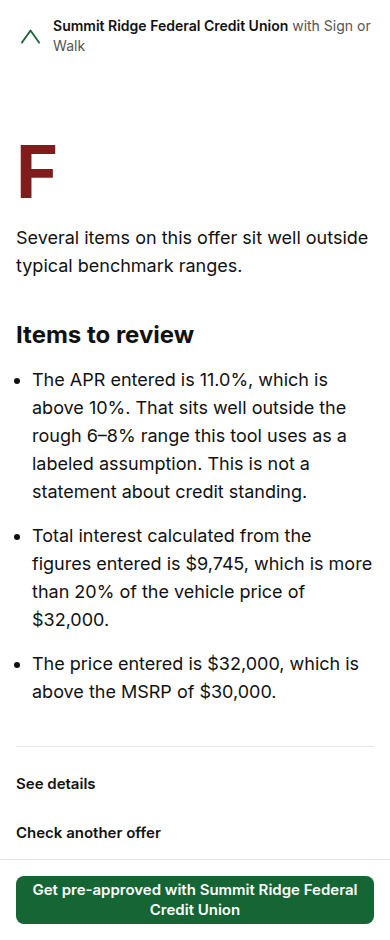
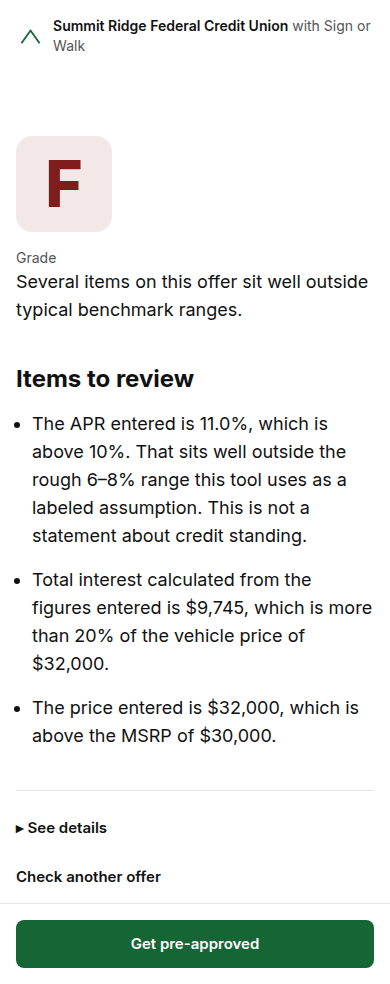
Apply the design review to marketing, results, and the credit-union 404.
Growth is the recommended plan, the grade is a tinted square, and unknown tenants show the Sign or Walk wordmark.

diff --git a/src/app/credit-unions/page.tsx b/src/app/credit-unions/page.tsx
@@ -26,44 +26,69 @@ export const metadata: Metadata = {
   },
 };
 
-const button =
-  'inline-flex items-center justify-center h-12 w-full md:h-11 px-4 rounded-lg bg-[#111] text-white text-[15px] font-semibold hover:bg-[#111] focus-visible:outline focus-visible:outline-2 focus-visible:outline-offset-2 focus-visible:outline-[#111]';
+const focus =
+  'focus-visible:outline focus-visible:outline-2 focus-visible:outline-offset-2 focus-visible:outline-[#111]';
 
-const textLink = 'text-[15px] font-semibold text-[#111] hover:underline underline-offset-4 focus-visible:outline focus-visible:outline-2 focus-visible:outline-offset-2 focus-visible:outline-[#111]';
+const solidButton =
+  `inline-flex items-center justify-center h-12 w-full md:h-11 px-4 rounded-lg bg-[#111] text-white text-[15px] font-semibold ${focus}`;
+
+const outlineButton =
+  `inline-flex items-center justify-center h-12 w-full md:h-11 px-4 rounded-lg border border-[#E5E5E5] bg-white text-[#111] text-[15px] font-semibold ${focus}`;
+
+const textLink =
+  `text-[15px] font-semibold text-[#111] underline decoration-[#555] decoration-1 underline-offset-4 hover:decoration-[#111] ${focus}`;
 
 export default function CreditUnionsPage() {
   return (
     <div className="flex min-h-screen flex-col">
-      <header className="mx-auto flex h-16 w-full max-w-[960px] items-center px-4">
-        <p className="text-[15px] font-semibold leading-[20px]">Sign or Walk</p>
+      <header className="border-b border-[#E5E5E5]">
+        <div className="mx-auto flex h-16 w-full max-w-[960px] items-center px-4">
+          <p className="text-[15px] font-semibold leading-[20px]">Sign or Walk</p>
+        </div>
       </header>
 
-      <div className="mx-auto w-full max-w-[960px] flex-1 px-4 pt-16 md:pt-24">
-        <h1 className="max-w-[640px] text-[32px] font-extrabold leading-[38px] md:text-[48px] md:leading-[52px]">
+      <div className="mx-auto w-full max-w-[960px] px-4 pt-16 md:pt-24">
+        <p className="text-[14px] font-semibold leading-[20px] text-[#555]">For credit unions</p>
+        <h1 className="mt-4 max-w-[640px] text-[32px] font-extrabold leading-[38px] md:text-[48px] md:leading-[52px]">
           {HEADLINE}
         </h1>
         <p className="mt-6 max-w-[640px] text-[18px] leading-[28px] text-[#555]">{VALUE}</p>
+      </div>
 
-        <ul className="mt-16 grid gap-4 md:mt-24 md:grid-cols-3">
-          {pricedTiers.map(tier => (
-            <li key={tier.id} className="flex flex-col border border-[#E5E5E5] bg-[#FAFAFA] p-6">
-              <h2 className="text-[24px] font-bold leading-[30px]">{tier.name}</h2>
-              <p className="mt-4 text-[14px] leading-[20px] text-[#555]">{ASSETS[tier.id]}</p>
-              <p className="mt-4 text-[32px] font-bold leading-[32px] tabular-nums">{formatUsd(tier.annualUsd)}/yr</p>
-              <Link href={`/credit-unions/get-started?tier=${tier.id}`} className={`${button} mt-4`}>
-                Start 90-day free pilot
-              </Link>
-              <p className="mt-4 text-[14px] leading-[20px] text-[#555]">No charge for 90 days. Cancel anytime.</p>
-            </li>
-          ))}
-        </ul>
+      <div className="bg-[#FAFAFA] py-16">
+        <div className="mx-auto w-full max-w-[960px] px-4">
+          <ul className="grid gap-4 md:grid-cols-3">
+            {pricedTiers.map(tier => {
+              const recommended = tier.id === 'growth';
+              return (
+                <li
+                  key={tier.id}
+                  className={`flex flex-col rounded-[12px] bg-[#FAFAFA] p-6 transition duration-150 hover:border-[#111] hover:shadow-[0_1px_2px_rgb(0_0_0/0.06)] ${recommended ? 'border-2 border-[#111]' : 'border border-[#E5E5E5]'}`}
+                >
+                  <p className="mb-4 h-6">
+                    {recommended ? (
+                      <span className="inline-flex items-center rounded-[999px] bg-[#111] px-2 py-1 text-[12px] font-semibold leading-[16px] text-white">Most chosen</span>
+                    ) : null}
+                  </p>
+                  <h2 className="text-[24px] font-bold leading-[30px]">{tier.name}</h2>
+                  <p className="mt-4 text-[14px] leading-[20px] text-[#555]">{ASSETS[tier.id]}</p>
+                  <p className="mt-4 text-[32px] font-bold leading-[32px] tabular-nums">{formatUsd(tier.annualUsd)}/yr</p>
+                  <Link href={`/credit-unions/get-started?tier=${tier.id}`} className={`${recommended ? solidButton : outlineButton} mt-4`}>
+                    Start 90-day free pilot
+                  </Link>
+                  <p className="mt-4 text-[14px] leading-[20px] text-[#555]">Free for 90 days. Cancel anytime.</p>
+                </li>
+              );
+            })}
+          </ul>
 
-        <p className="mt-16 md:mt-24">
-          <a href={`mailto:${TALK_TO_US_EMAIL}`} className={textLink}>Over $5B? Email us.</a>
-        </p>
-        <p className="mt-4">
-          <a href="/credit-unions/packet" className={textLink}>Download due-diligence packet (draft)</a>
-        </p>
+          <p className="mt-10">
+            <a href={`mailto:${TALK_TO_US_EMAIL}`} className={textLink}>Over $5B? Email us.</a>
+          </p>
+          <p className="mt-4">
+            <a href="/credit-unions/packet" className={textLink}>Download due-diligence packet (draft)</a>
+          </p>
+        </div>
       </div>
 
       <footer className="mx-auto mt-16 w-full max-w-[960px] px-4 pb-16 md:mt-24 md:pb-24">

diff --git a/src/app/cu/[tenant]/CheckForm.tsx b/src/app/cu/[tenant]/CheckForm.tsx
@@ -74,6 +74,14 @@ function statusText(status: 'good' | 'warn' | 'bad'): string {
   return 'Outside typical range';
 }
 
+function gradeTint(hex: string): string {
+  const raw = hex.replace('#', '');
+  const r = Number.parseInt(raw.slice(0, 2), 16);
+  const g = Number.parseInt(raw.slice(2, 4), 16);
+  const b = Number.parseInt(raw.slice(4, 6), 16);
+  return `rgb(${r} ${g} ${b} / 0.1)`;
+}
+
 function trackSafe(name: 'analysis_completed' | 'cta_clicked', props: Record<string, string>) {
   try {
     track(name, props);
@@ -199,10 +207,21 @@ export function CheckForm({ tenant }: { tenant: CuPublic }) {
     const gradeColor = GRADE_FILL[report.grade] ?? '#111111';
     return (
       <div className="mx-auto w-full max-w-[560px] px-4 pb-24 pt-16 md:pb-16 md:pt-24">
-        <h1 ref={headingRef} tabIndex={-1} className="text-[72px] font-bold leading-[72px] outline-none" style={{ color: gradeColor }}>
-          <span className="sr-only">Grade </span>{report.grade}
-        </h1>
-        <p className="mt-4 text-[18px] leading-[28px]">{report.headline}</p>
+        <div className="flex flex-col gap-4 md:flex-row md:items-center">
+          <p
+            aria-hidden="true"
+            className="flex h-24 w-24 shrink-0 items-center justify-center rounded-[16px] text-[64px] font-extrabold leading-none"
+            style={{ color: gradeColor, backgroundColor: gradeTint(gradeColor) }}
+          >
+            {report.grade}
+          </p>
+          <div>
+            <p className="text-[14px] leading-[20px] text-[#555]">Grade</p>
+            <h1 ref={headingRef} tabIndex={-1} className="text-[18px] leading-[28px]">
+              <span className="sr-only">{report.grade}. </span>{report.headline}
+            </h1>
+          </div>
+        </div>
 
         {shown.length > 0 && (
           <section className="mt-10" aria-labelledby="review-heading">
@@ -219,17 +238,19 @@ export function CheckForm({ tenant }: { tenant: CuPublic }) {
             href={tenant.preApprovalUrl}
             onClick={() => trackSafe('cta_clicked', { tenant: tenant.id, target: 'preapproval' })}
           >
-            Get pre-approved with {tenant.name}
+            <span className="md:hidden">Get pre-approved</span>
+            <span className="hidden md:inline">Get pre-approved with {tenant.name}</span>
           </Primary>
         </div>
 
         <div className="mt-10 border-t border-[#E5E5E5] pt-6">
           <button
             type="button"
-            className={textLink}
+            className={`${textLink} inline-flex items-center gap-1`}
             aria-expanded={showDetails}
             onClick={() => setShowDetails(open => !open)}
           >
+            <span aria-hidden="true">{showDetails ? '▾' : '▸'}</span>
             See details
           </button>
           {showDetails && (
@@ -330,8 +351,13 @@ export function CheckForm({ tenant }: { tenant: CuPublic }) {
               return (
                 <label
                   key={option}
-                  className="flex h-12 cursor-pointer items-center gap-2 border px-4 text-[15px] font-semibold"
-                  style={{ borderColor: selected ? accent : '#E5E5E5' }}
+                  className="flex h-12 cursor-pointer items-center gap-2 rounded-lg px-4 text-[15px] font-semibold"
+                  style={{
+                    borderStyle: 'solid',
+                    borderWidth: selected ? 2 : 1,
+                    borderColor: selected ? accent : '#E5E5E5',
+                    backgroundColor: selected ? `rgb(${tenant.colors.accent} / 0.06)` : '#fff',
+                  }}
                 >
                   <input
                     type="radio"

diff --git a/src/app/cu/[tenant]/layout.tsx b/src/app/cu/[tenant]/layout.tsx
@@ -54,8 +54,12 @@ export default async function CuLayout({
   const tenant = getCuTenant((await params).tenant);
   if (!tenant) {
     return (
-      <div className={`${inter.className} min-h-screen bg-white text-[#111]`}>
-        <style>{'body > nav, body > footer { display: none !important; } body { background: #fff; }'}</style>
+      <div className={`${inter.className} cu-missing min-h-screen bg-white text-[#111]`}>
+        <style>{`
+          body > nav, body > footer { display: none !important; }
+          body { background: #fff; }
+          .cu-missing :focus-visible { outline: 2px solid #111; outline-offset: 2px; }
+        `}</style>
         {children}
       </div>
     );
@@ -80,7 +84,7 @@ export default async function CuLayout({
           <span className="font-semibold text-[#111]">{pub.name}</span> with Sign or Walk
         </p>
       </header>
-      <div id="cu-content" tabIndex={-1} className="outline-none">
+      <div id="cu-content" tabIndex={-1}>
         {children}
       </div>
     </div>

diff --git a/src/cu/missing-page.ts b/src/cu/missing-page.ts
@@ -11,14 +11,20 @@ const PAGE = `<!DOCTYPE html>
 <style>
   body { margin: 0; background: #fff; color: #111; font-family: Inter, system-ui, sans-serif; }
   main { max-width: 560px; margin: 0 auto; padding: 96px 16px; }
+  .mark { margin: 0; font-size: 15px; line-height: 20px; font-weight: 600; color: #111; }
   p { margin: 16px 0 0; font-size: 18px; line-height: 28px; color: #555; }
-  h1 { margin: 0; font-size: 32px; line-height: 38px; font-weight: 800; }
+  h1 { margin: 64px 0 0; font-size: 32px; line-height: 38px; font-weight: 800; }
+  a { color: #111; font-size: 15px; font-weight: 600; text-underline-offset: 4px; text-decoration-thickness: 1px; text-decoration-color: #555; }
+  a:hover { text-decoration-color: #111; }
+  a:focus-visible { outline: 2px solid #111; outline-offset: 2px; }
 </style>
 </head>
 <body>
 <main>
+<p class="mark">Sign or Walk</p>
 <h1>Page not found</h1>
 <p>This credit union page does not exist.</p>
+<p><a href="https://signorwalk.com">Go to signorwalk.com</a></p>
 </main>
 </body>
 </html>

diff --git a/src/app/cu/[tenant]/not-found.tsx b/src/app/cu/[tenant]/not-found.tsx
@@ -1,8 +1,17 @@
 export default function CuTenantNotFound() {
   return (
     <main className="mx-auto w-full max-w-[560px] px-4 pt-16 md:pt-24">
-      <h1 className="text-[32px] font-extrabold leading-[38px] md:text-[48px] md:leading-[52px]">Page not found</h1>
+      <p className="text-[15px] font-semibold leading-[20px]">Sign or Walk</p>
+      <h1 className="mt-16 text-[32px] font-extrabold leading-[38px] md:mt-24 md:text-[48px] md:leading-[52px]">Page not found</h1>
       <p className="mt-4 text-[18px] leading-[28px] text-[#555]">This credit union page does not exist.</p>
+      <p className="mt-6">
+        <a
+          href="https://signorwalk.com"
+          className="text-[15px] font-semibold text-[#111] underline decoration-[#555] decoration-1 underline-offset-4 hover:decoration-[#111] focus-visible:outline focus-visible:outline-2 focus-visible:outline-offset-2 focus-visible:outline-[#111]"
+        >
+          Go to signorwalk.com
+        </a>
+      </p>
     </main>
   );
 }

diff --git a/test/templates.test.ts b/test/templates.test.ts
@@ -99,7 +99,9 @@ test('credit-union UI says Sign or Walk only in the header line', () => {
     seen.add(file);
     const text = readFileSync(file, 'utf8');
     const hits = text.match(/Sign or Walk/g) ?? [];
-    const allowed = text.match(/(?:with|Powered by) Sign or Walk/g) ?? [];
-    assert.equal(hits.length, allowed.length, file);
+    const withLine = text.match(/with Sign or Walk/g) ?? [];
+    const powered = text.match(/Powered by Sign or Walk/g) ?? [];
+    const wordmark = file.endsWith('not-found.tsx') ? (text.match(/>Sign or Walk</g) ?? []) : [];
+    assert.equal(hits.length, withLine.length + powered.length + wordmark.length, file);
   }
 });

diff --git a/test/cu.test.ts b/test/cu.test.ts
@@ -162,7 +162,10 @@ test('analyze route is rules-only, drops free text, and rate limits without logg
     assert.equal(missing.status, 404);
     const missingHtml = await missing.text();
     assert.match(missingHtml, /Page not found/);
+    assert.match(missingHtml, />Sign or Walk</);
+    assert.match(missingHtml, /Go to signorwalk.com/);
     assert.equal(missingHtml.includes('Grade My Deal'), false);
+    assert.equal(missingHtml.includes('Harborlight'), false);
 
     resetAnalyzeRateLimit();
     for (let i = 0; i < ANALYZE_LIMIT; i++) takeAnalyzeSlot('198.51.100.21');
